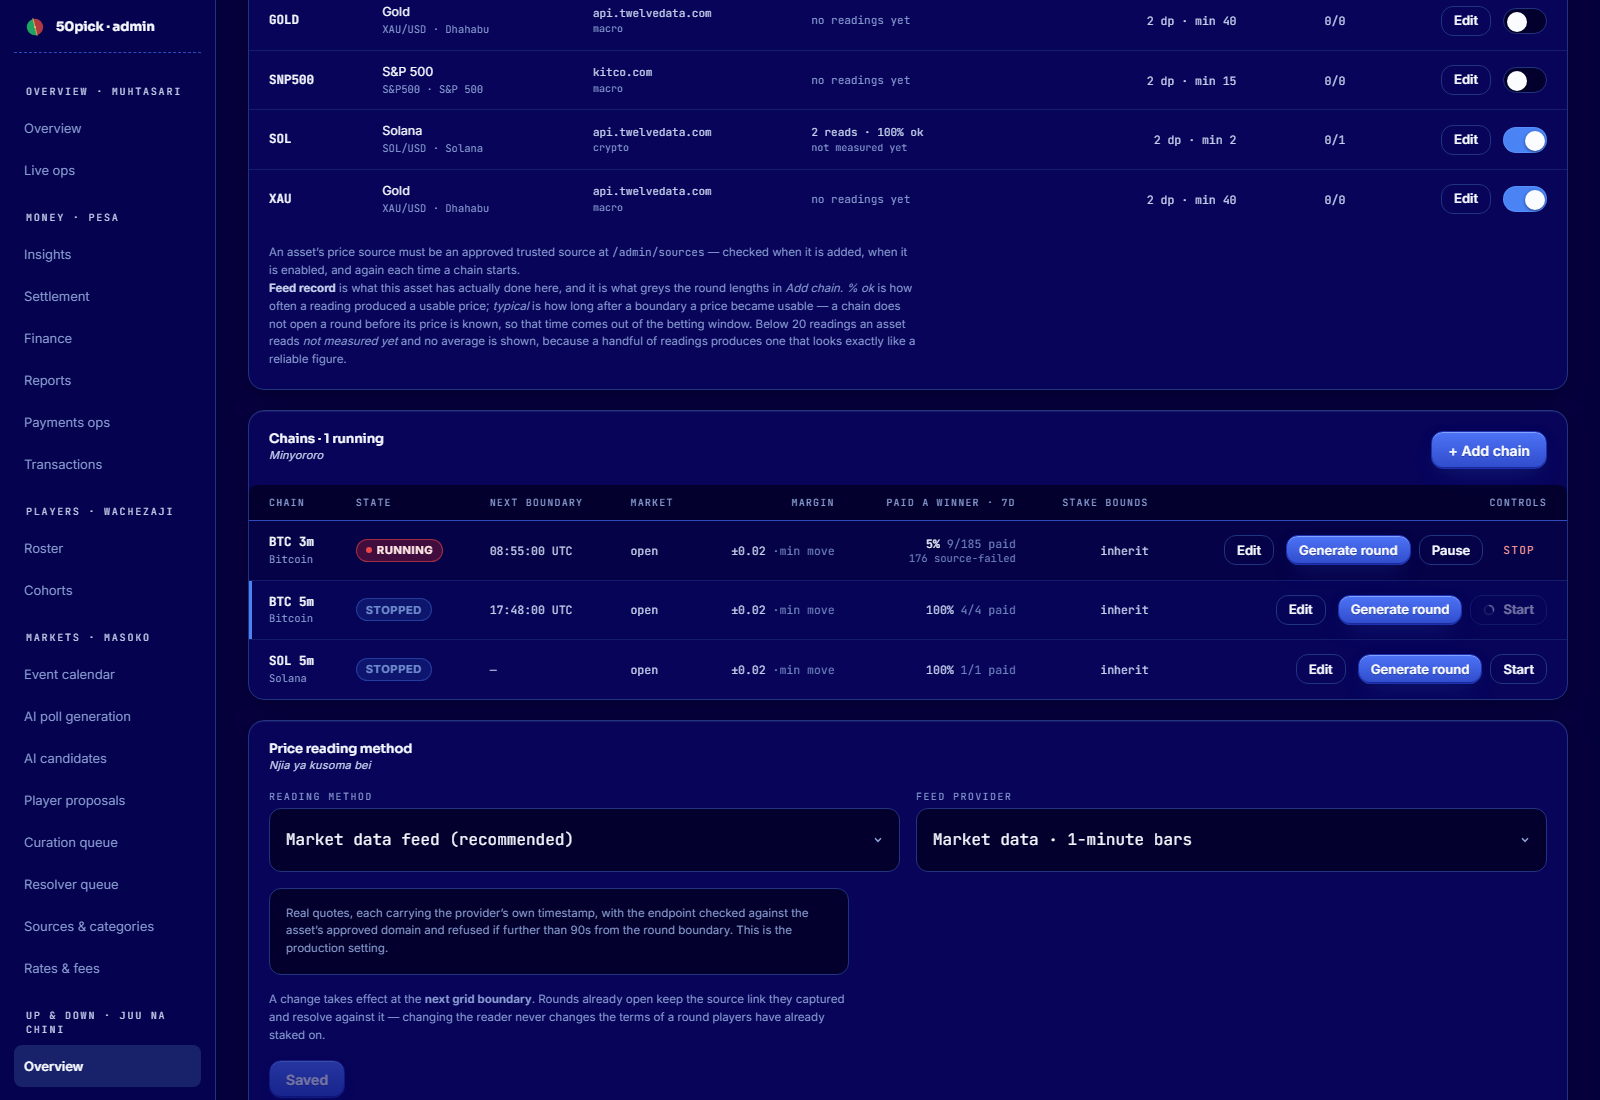
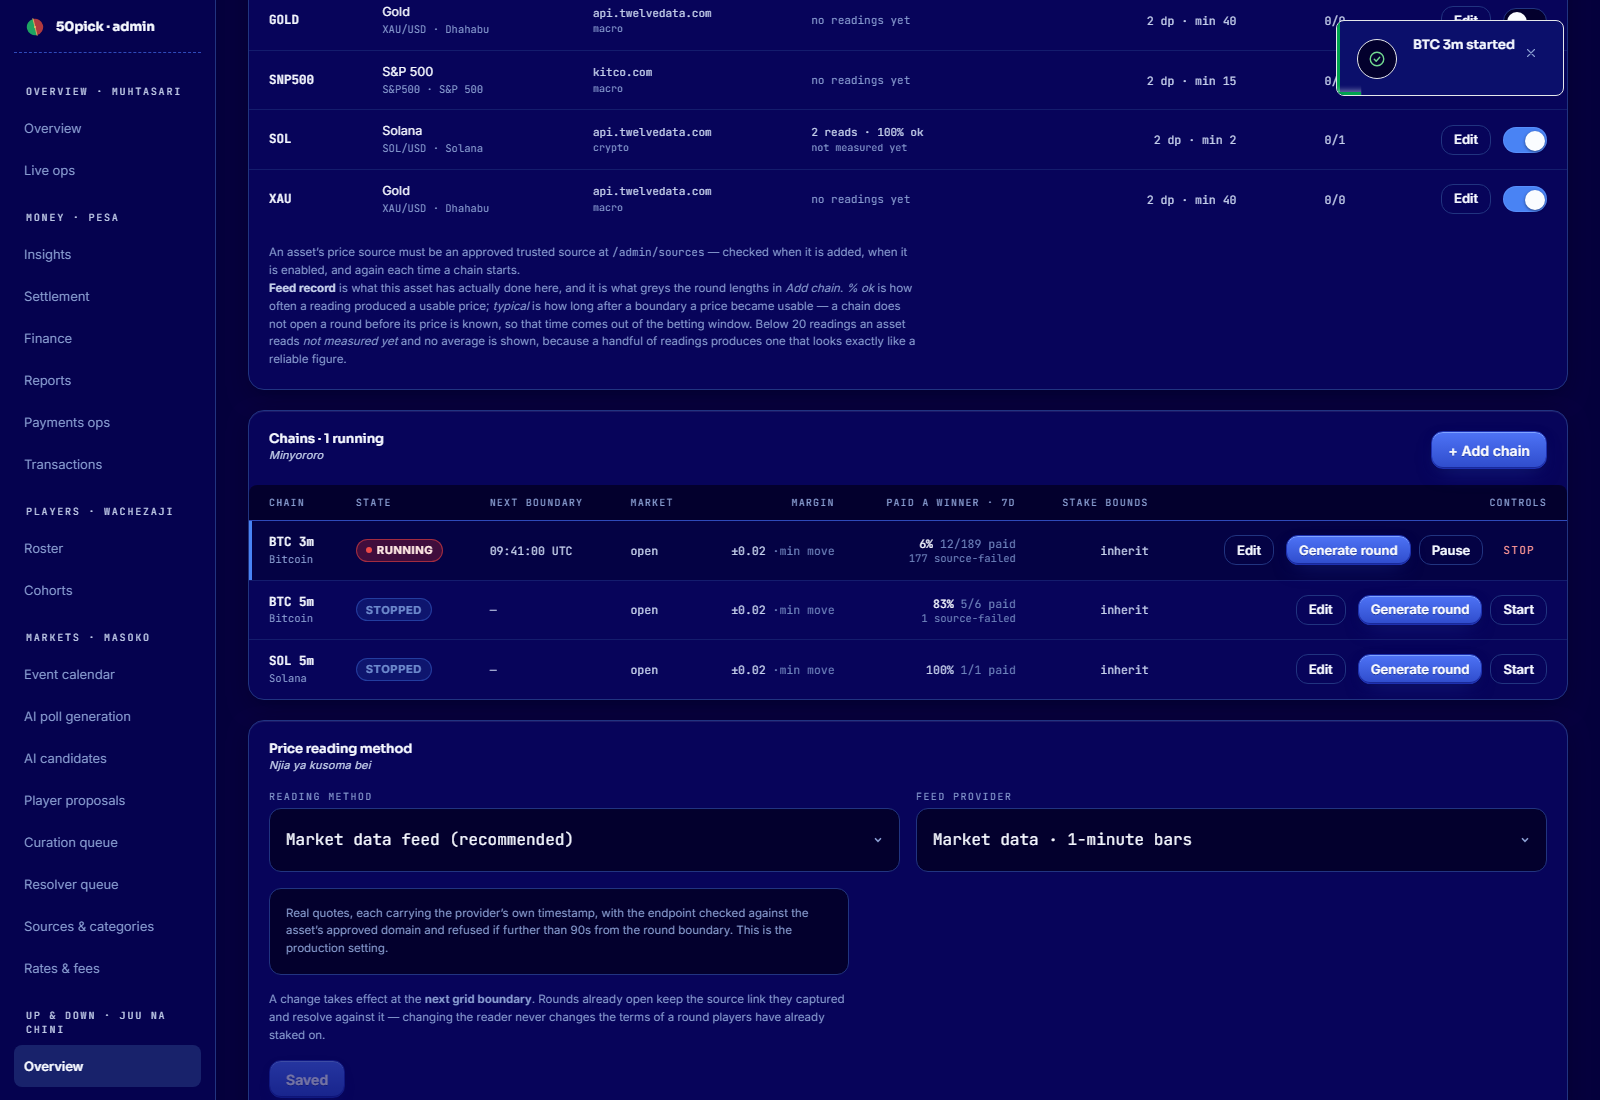
The one-sided refund, driven live with real money, in EN/SW/ZH — and the traps it cost
udr_eb0dc4fad03e9dd7e6a2, BTC 3m. alpha staked TZS 500 on UP and nothing on DOWN.
The round DECIDED — open $64,170.11 → close $64,174.00, up target $64,170.13,
outcome UP, voidReason null — the player's side WON, and the stake came back in
full: YES 500.00 → 500.00 [VOID], wallet 61,540 → 61,040 → 61,540, exact to the
shilling. All three languages state exactly ONE refund reason, the right one:
"Nobody backed the other side, so there was nothing to win and nothing to lose."
None of them says the player lost. That is the failure E-65 was filed for, now
driven rather than asserted.

⚠ The result chip still reads "VOID · REFUNDED" beside a settlement proof reading
"OUTCOME ▲ Up" — the §6ak item, now confirmed on the exact path E-65 was about. The
chip describes the POSITION and the proof describes the ROUND, and one card apart
they contradict each other. Still open.

⚠ Deliberately NOT claimed: market-shut gold cannot be driven today at all — metals
follow the FX week and it is Wednesday, so the shut state is only reachable Friday
21:00 → Sunday 22:00 UTC. no-move and operator-void were not driven. And the inbox
leg is UNVERIFIED rather than failed: per-round results appear to reach players
through the DAILY digest, so a round that settled two minutes ago legitimately has
no inbox entry — my check assumed one, and its red is about my assumption.

Every harness trap this drive paid for is now encoded in the drivers, and all of
them were mine rather than the product's:
[…]

diff --git a/docs/LIVE-QA-CAMPAIGN.md b/docs/LIVE-QA-CAMPAIGN.md
@@ -3656,6 +3656,86 @@ workstation shows an SLA countdown, but nothing escalates when it runs out. Ali'
   platform zone (+3) keeps it on the right day, and the E-2 fix is safe. The earlier note was
   the `pg` −3h trap (§3) reading back through an un-cast client.
 
+## 6aq. ⭐ THE SOAK EARNED ITS HOUR — E-86, and the one-sided refund driven with real money (2026-08-05, session 26)
+
+The handoff asked for a RUNNING chain to be soaked for a full hour because **E-83 was closed on
+eleven minutes of evidence**. The soak found a different, larger defect within twenty minutes.
+
+### What the soak found — E-86, and why 11 minutes could never have caught it
+
+| | |
+|---|---|
+| 08:59, 09:01, 09:03 | ✅ three rounds settled cleanly — an eleven-minute soak would have stopped here and declared victory |
+| **09:07** | 🔴 **BTC 3m #188 and BTC 5m #6 both VOID `source-failed`** on the shared boundary |
+| 09:13:24 → 09:14:18 | provider credits **10 → 345 of 377 in 55 seconds**, then HTTP 429 |
+
+⭐ **The platform was reading its own metered data provider about six times a second** for the
+~130s a 1-minute bar takes to publish — because the backoff ladder was skipped on the one
+refusal that happens at *every* boundary — and then treated the resulting rate limit as a
+verdict, spending all four of the boundary's lives in **90 seconds of a 390-second deadline**.
+Full mechanism and fix in **E-86** in §6.
+
+⛔ **The lesson is about the shape of the evidence, not the bug.** Three clean rounds is what
+the failure looks like from inside its own first ten minutes. The defect needed a *rate* to
+build up, and a rate is invisible to any check that asks "did this round settle?".
+
+### Verified on the fixed build, against the provider's own counter
+
+With the fix deployed and one chain RUNNING, credit usage across a boundary stayed at the
+**1–10/min baseline** (which is the measuring poller itself) where it had previously reached
+**345**. The observation for a pending boundary now reads
+`PENDING att=0 · "Price for that minute not published yet"` — uncharged, recorded, and spaced.
+
+### ⭐ THE ONE-SIDED REFUND, DRIVEN LIVE WITH REAL MONEY (E-65's own shape)
+
+`udr_eb0dc4fad03e9dd7e6a2` · BTC 3m · alpha staked **TZS 500 on UP and nothing on DOWN**.
+
+| | |
+|---|---|
+| The round **decided** | open **$64,170.11** → close **$64,174.00**, up target $64,170.13 → **outcome UP**, `voidReason` null |
+| The player's side **won** | and was **refunded in full** — `YES 500.00 → 500.00 [VOID]` |
+| The money | 61,540 → **61,040** → **61,540**, exact to the shilling |
+| The sentence | *"Nobody backed the other side, so there was nothing to win and nothing to lose. Your stake is back in full."* |
+
+✅ **EN, SW and ZH all state exactly ONE refund reason, the right one, and none says the player
+lost.** That is precisely the failure E-65 was filed for — a decided round dressed as a loss —
+and it is now driven, not asserted. Evidence: `shots/E84-gate/onesided-refund-en.png`.
+
+⚠ **The result chip still reads `VOID · REFUNDED` beside a settlement proof that reads
+`OUTCOME ▲ Up`** — the §6ak item, now confirmed on the exact path E-65 was about. The chip
+describes the POSITION and the proof describes the ROUND, and one card apart they contradict
+each other. **Still open, and it is the last honest gap on this surface.**
+
+### ⚠ What was NOT driven, and why — read before claiming the unhappy paths are done
+
+· **market-shut gold cannot be driven today at all.** Metals follow the FX week and today is a
+  Wednesday, so the market is genuinely open — the shut state is only reachable Fri 21:00 →
+  Sun 22:00 UTC. The console's *reason* copy for it is verified (the greyed-option sentence),
+  the live refusal is not. ⛔ Do not mark this done from a green suite.
+· **no-move refund** and **operator void** — not driven this session.
+· **The inbox leg is UNVERIFIED, not failed.** Per-round results appear to reach the player
+  through the DAILY DIGEST (`"4 Aug: 5 rounds — won 3…"`), so a round that settled two minutes
+  ago legitimately has no inbox entry. My check assumed one and is wrong until the digest
+  behaviour is confirmed — do not read its red as a product defect.
+
+### Harness traps this drive paid for, all mine, all now encoded
+
+1. ⛔ **`clickByName` is page-wide and takes `.first()`.** On a grid where every row has its own
+   `Start`, a confirm click after a row click lands on the **next row's button** — this started
+   a second chain on production (audit `updown.chain.started` 08:52:46 then 08:52:56) and
+   doubled the read rate. Scope every confirm to `[role=dialog]`.
+2. ⛔ **`networkidle` never fires on the Up & Down board** — it polls. And `domcontentloaded`
+   returns while every card is still a skeleton, so reading the text there reports *"no refund
+   reason on the page"* about a page that has not rendered one. Wait for the round's own
+   numbers.
+3. ⛔ **One browser context per persona.** Signing in as admin then as a player in the same
+   context reuses the admin cookie, `/auth/login` redirects, and the missing field surfaces as
+   `waiting for locator('#identifier')` — indistinguishable from a broken login page.
+4. ⚠ **`page.screenshot()` does not wait for animations.** The kit's `.m-float-in` fades a
+   dropdown in, so a shot taken on open photographs an opaque panel as see-through. I nearly
+   filed it.
+5. ⚠ **A mojibake `Â·` in an RSC response is the reader's decoding, not the data.** The DB
+   columns are clean in all three languages — checked before filing.
 ## 6ap. ⭐ THE DYNAMIC PER-ASSET GATE IS WIRED — and the engine it wires was wrong (2026-08-05, session 26)
 
 Ali, 2026-08-05: *"guide admins as they go for every asset based on history of 12data"* — and on
